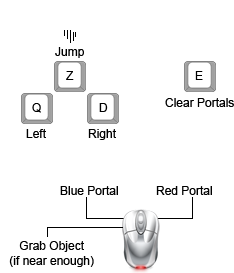
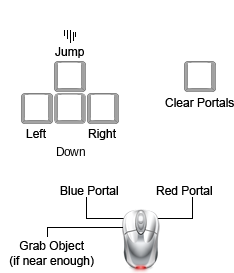
feat: show the keys of the keyboard of the player
The controls picture on the loading screen and the tutorial texts
showed the fixed keys Z, Q, D and E of an AZERTY keyboard, while the
game reads the physical key position since the move to event.code.

The key caps in the picture are empty now, and the picture has a cap
for the down key. The game draws the labels from a lookup table that
the Keyboard Map API fills with the labels of the layout of the player.
Browsers without the API show the QWERTY labels W, A, S, D and E.

Changed region(s): [[0.0897, 0.2344, 0.5085, 0.4689], [0.7778, 0.2344, 0.9274, 0.3223], [0.2393, 0.5275, 0.359, 0.5861]]

diff --git a/js/tutorial.js b/js/tutorial.js
@@ -6,6 +6,7 @@ import { ctx } from './canvas.js';
 import { CampaignId, Direction } from './constants.js';
 import { Sparkle } from './entities/Sparkle.js';
 import { unclick } from './input.js';
+import { keyLabels } from './keys.js';
 import { loadLevel } from './level.js';
 import { atExit } from './physics.js';
 import { game, input, ui } from './state.js';
@@ -226,7 +227,7 @@ function drawActivatePortalMessage2() {
 	ctx.fillText('Shoot a portal in the hole on the right and the other one', leftPan, game.offsetY + 48);
 	ctx.fillText('under your feet. That way, you will be able to pass through.', leftPan, game.offsetY + 48 + 12);
 	ctx.fillText('Then, just finish the level to continue the tutorial.', leftPan, game.offsetY + 48 + 24);
-	ctx.fillText('If you want to clear portals, press the E key.', leftPan, game.offsetY + 48 + 36);
+	ctx.fillText('If you want to clear portals, press the ' + keyLabels.KeyE + ' key.', leftPan, game.offsetY + 48 + 36);
 
 	ctx.fillText('Portal', 114, 365);
 	ctx.fillText('Here', 118, 380);
@@ -304,7 +305,11 @@ function drawExitMessage() {
 function drawMoveMessage() {
 	prepareTxtDefault();
 	ctx.fillText('Welcome to the tutorial.', leftPan, game.offsetY + 48);
-	ctx.fillText('First, start moving around the room with Q (A) or D.', leftPan, game.offsetY + 48 + 16);
+	ctx.fillText(
+		'First, start moving around the room with ' + keyLabels.KeyA + ' or ' + keyLabels.KeyD + '.',
+		leftPan,
+		game.offsetY + 48 + 16,
+	);
 	ctx.fillText('Click to continue ...', leftPan, game.offsetY + 48 + 32);
 }
 
@@ -316,7 +321,11 @@ function drawMoveMessage() {
 function drawJumpMessage() {
 	prepareTxtDefault();
 	ctx.fillText("You can't pass these obstacles unless you jump over them.", leftPan, game.offsetY + 48);
-	ctx.fillText('Press Z (W) to perform a jump and hold it to jump higher !', leftPan, game.offsetY + 48 + 16);
+	ctx.fillText(
+		'Press ' + keyLabels.KeyW + ' to perform a jump and hold it to jump higher !',
+		leftPan,
+		game.offsetY + 48 + 16,
+	);
 	ctx.fillText('Click to continue ...', leftPan, game.offsetY + 48 + 32);
 }
 

diff --git a/js/render/menus.js b/js/render/menus.js
@@ -52,6 +52,7 @@ import {
 	turretImages,
 } from '../images.js';
 import { mouseInZone, unclick } from '../input.js';
+import { keyLabels } from '../keys.js';
 import { creditsTxt, levelsLoaded, levelsToLoad, loadLevel, loadPreviewMap } from '../level.js';
 import { copyCanvas, drawCopy, drawPlayer, drawRobot, drawTunnels } from './game.js';
 import { drawHudText, drawText } from './hud.js';
@@ -324,6 +325,27 @@ export function drawSplash() {
 }
 
 /**
+ * Draw the labels of the control keys into the empty key caps of the controls picture.
+ *
+ * @param {number} dx The x position of the picture.
+ * @param {number} dy The y position of the picture.
+ * @returns {void}
+ */
+function drawKeyLabels(dx, dy) {
+	ctx.font = 'bold 14px Arial';
+	ctx.textAlign = 'center';
+	ctx.fillStyle = 'rgb(0, 0, 0)';
+	ctx.fillText(keyLabels.KeyW, dx + 70, dy + 81);
+	ctx.fillText(keyLabels.KeyA, dx + 37, dy + 113);
+	ctx.fillText(keyLabels.KeyS, dx + 70, dy + 113);
+	ctx.fillText(keyLabels.KeyD, dx + 103, dy + 113);
+	ctx.fillText(keyLabels.KeyE, dx + 200, dy + 81);
+	ctx.textAlign = 'left';
+	ctx.font = 'bold 10px Arial';
+	ctx.fillStyle = 'rgb(255, 255, 255)';
+}
+
+/**
  * Draw the loading screen with the progress bars, the controls and the missing files, and go to the menu on a click
  * when all files are loaded.
  *
@@ -383,6 +405,7 @@ export function drawLoadingScreen() {
 		const dx = 225;
 		const dy = 190;
 		ctx.drawImage(controls, dx, dy);
+		drawKeyLabels(dx, dy);
 
 		drawPlayer(62 + dx, dy, -1);
 		drawPlayer(124 + dx, 95 + dy, 1);

diff --git a/js/main.js b/js/main.js
@@ -11,6 +11,7 @@ import { Player } from './entities/Player.js';
 import { render, tick } from './game.js';
 import { loadGfx, loadSplashImages } from './images.js';
 import { unclick } from './input.js';
+import { loadKeyLabels } from './keys.js';
 import {
 	campaigns,
 	levelsLoaded,
@@ -32,13 +33,14 @@ export let canSplash = false;
 /**
  * Start the game.
  *
- * The splash screen waits for its images and the font. Then the other images, the sounds, the credits and the
- * campaigns start to load, and the loading screen shows the progress.
+ * The key labels load at once. The splash screen waits for its images and the font. Then the other images, the
+ * sounds, the credits and the campaigns start to load, and the loading screen shows the progress.
  */
 function setup() {
 	ctx.strokeStyle = 'rgb(255, 0, 0)';
 	ctx.font = 'bold 10px Arial';
 
+	loadKeyLabels();
 	loadSplashImages();
 	Promise.all([whenImagesDone(), document.fonts.load('48px yikes')]).then(function () {
 		canSplash = true;

diff --git a/js/keys.js b/js/keys.js
@@ -1,0 +1,35 @@
+/**
+ * The labels of the control keys on the keyboard of the player.
+ */
+
+/**
+ * The label of each control key, by key code. The defaults are the labels of a QWERTY keyboard.
+ *
+ * @type {Object<string, string>}
+ */
+export const keyLabels = {
+	KeyW: 'W',
+	KeyA: 'A',
+	KeyS: 'S',
+	KeyD: 'D',
+	KeyE: 'E',
+};
+
+/**
+ * Replace the default labels with the labels of the keyboard layout of the player. Browsers without the Keyboard
+ * Map API keep the defaults.
+ *
+ * @returns {Promise<void>}
+ */
+export async function loadKeyLabels() {
+	if (!navigator.keyboard || !navigator.keyboard.getLayoutMap) return;
+	try {
+		const layout = await navigator.keyboard.getLayoutMap();
+		for (const code of Object.keys(keyLabels)) {
+			const label = layout.get(code);
+			if (label) keyLabels[code] = label.toUpperCase();
+		}
+	} catch (error) {
+		console.error(error);
+	}
+}
